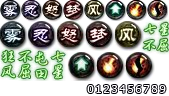
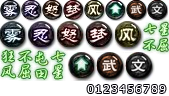
Sp LvMeng

Changed region(s): [[0.5621, 0.5625, 0.9172, 0.8438], [0.7396, 0.0, 1.0, 0.2188]]

diff --git a/Source/Expansions/StarSP/StarSP.Skills.xaml b/Source/Expansions/StarSP/StarSP.Skills.xaml
@@ -56,10 +56,11 @@
     <sys:String x:Key="Skill.TanHu.Name">探虎</sys:String>
     <sys:String x:Key="Skill.TanHu.Description">出牌阶段，你可以与一名其他角色拼点：若你赢，你获得以下技能直到回合结束：你计算的与目标角色的距离为1，你使用的非延时类锦囊对该角色结算时不能被【无懈可击】响应。每阶段限一次。</sys:String>
     <sys:String x:Key="Skill.TanHu.Usage">点“探虎”→选择一名角色→点“确定”</sys:String>
+    <sys:String x:Key="Skill.TanHu.Prompt">请选择一名目标</sys:String>
 
     <sys:String x:Key="Skill.MouDuan.Name">谋断</sys:String>
-    <sys:String x:Key="Skill.MouDuan.Description">锁定技，游戏开始时，你获得一枚“武”标记；当你失去手牌时，若你的手牌数为2或更低，你失去所有的“武”标记并获得一枚“文”标记；一名角色的回合开始前，你可弃置一张牌，然后若你的手牌数为3或更高，你失去所有的“武”标记并获得一枚“文”标记。你拥有“武”标记时，你拥有技能“激昂”和“谦逊”，你拥有“文”标记时，你拥有技能“英姿”和“克己”。</sys:String>
-    <sys:String x:Key="Skill.MouDuan.Usage">系统提示→点“确定”</sys:String>
+    <sys:String x:Key="Skill.MouDuan.Description">转化技，通常状态下，你拥有标记“武”并拥有技能“激昂”和“谦逊”。当你的手牌数为2张或以下时，你须将你的标记翻面为“文”，将该两项技能转化为“英姿”和“克己”。任一角色的回合开始前，你可弃一张牌将标记翻回。</sys:String>
+    <sys:String x:Key="Skill.MouDuan.Usage">系统提示→选择一张牌→点“确定”</sys:String>
 
     <sys:String x:Key="Skill.ZhaoLie.Name">昭烈</sys:String>
     <sys:String x:Key="Skill.ZhaoLie.Description">摸牌阶段摸牌时，你可以少摸一张牌并选择你攻击范围内的一名其他角色，然后亮出牌堆顶的三张牌，将其中的非基本牌和【桃】置入弃牌堆，该角色须选择一项：1、受到你的X点伤害，然后获得剩下的牌；2、依次弃置X张牌，然后你获得剩下的牌。（X为其中除【桃】外的基本牌的数量）。</sys:String>

diff --git a/Source/UI/Resources/Images/System.xaml b/Source/UI/Resources/Images/System.xaml
@@ -312,6 +312,10 @@
     <CroppedBitmap x:Key="Mark.KuangFeng.Image.Small" Source="Marks/marks.png" SourceRect="84,0,20,20" />
     <CroppedBitmap x:Key="Mark.BaoNu.Image.Large" Source="Marks/marks.png" SourceRect="55,21,28,28"/>
     <CroppedBitmap x:Key="Mark.BaoNu.Image.Small" Source="Marks/marks.png" SourceRect="42,0,20,20" />
+    <CroppedBitmap x:Key="Mark.Wu.Image.Large" Source="Marks/marks.png" SourceRect="96,52,28,28" />
+    <CroppedBitmap x:Key="Mark.Wu.Image.Small" Source="Marks/marks.png" SourceRect="126,0,21,21" />
+    <CroppedBitmap x:Key="Mark.Wen.Image.Large" Source="Marks/marks.png" SourceRect="125,52,28,28" />
+    <CroppedBitmap x:Key="Mark.Wen.Image.Small" Source="Marks/marks.png" SourceRect="147,0,21,21" />
     
     <CroppedBitmap x:Key="Mark.Digit.0.Image" Source="Marks/marks.png" SourceRect="86,84,9,10" />
     <CroppedBitmap x:Key="Mark.Digit.1.Image" Source="Marks/marks.png" SourceRect="95,84,7,10" />

diff --git a/Source/Expansions/StarSP/StarSP.Game.xaml b/Source/Expansions/StarSP/StarSP.Game.xaml
@@ -75,4 +75,6 @@
     <sys:String x:Key="CardUsage.Prompt.JunWei">你可以选择3张锦和一个目标发动技能军威</sys:String>
     <sys:String x:Key="CardUsage.Prompt.JunWeiGiveShan">请把闪交给一名角色</sys:String>
     <sys:String x:Key="CardUsage.Prompt.JunWeiShowCard">请展示一张闪，或点取消流失体力</sys:String>
+
+    <sys:String x:Key="CardUsage.Prompt.MouDuan">你可以弃置一张牌，尝试把标记翻面为武</sys:String>
 </ResourceDictionary>

diff --git a/Source/Expansions/StarSP/Skills/MouDuan.cs b/Source/Expansions/StarSP/Skills/MouDuan.cs
@@ -1,0 +1,99 @@
+using System;
+using System.Collections.Generic;
+using System.Linq;
+using System.Text;
+
+using Sanguosha.Core.Triggers;
+using Sanguosha.Core.Cards;
+using Sanguosha.Core.UI;
+using Sanguosha.Core.Skills;
+using Sanguosha.Expansions.Basic.Skills;
+using Sanguosha.Expansions.Hills.Skills;
+using Sanguosha.Core.Games;
+using Sanguosha.Core.Players;
+using Sanguosha.Core.Exceptions;
+
+namespace Sanguosha.Expansions.StarSP.Skills
+{
+    /// <summary>
+    /// 谋断-转化技，通常状态下，你拥有标记“武”并拥有技能“激昂”和“谦逊”。当你的手牌数为2张或以下时，你须将你的标记翻面为“文”，将该两项技能转化为“英姿”和“克己”。任一角色的回合开始前，你可弃一张牌将标记翻回。
+    /// </summary>
+    class MouDuan : TriggerSkill
+    {
+        class MouDuanVerifier : CardsAndTargetsVerifier
+        {
+            public MouDuanVerifier()
+            {
+                MaxCards = 1;
+                MinCards = 1;
+                MaxPlayers = 0;
+                Discarding = true;
+            }
+        }
+
+        public MouDuan()
+        {
+            mdJiAng = new JiAng();
+            mdQianXun = new QianXun();
+            mdYingZi = new YingZi();
+            mdKeJi = new KeJi();
+
+            var trigger1 = new AutoNotifyPassiveSkillTrigger(
+                this,
+                (p, e, a) =>
+                {
+                    p[WuMark] = 1;
+                    Game.CurrentGame.PlayerAcquireSkill(p, mdJiAng);
+                    Game.CurrentGame.PlayerAcquireSkill(p, mdQianXun);
+                },
+                TriggerCondition.OwnerIsSource
+                ) { AskForConfirmation = false, IsAutoNotify = false };
+            Triggers.Add(GameEvent.PlayerGameStartAction, trigger1);
+
+            var trigger2 = new AutoNotifyPassiveSkillTrigger(
+                this,
+                (p, e, a) => { return p.HandCards().Count <= 2 && p[WuMark] != 0; },
+                (p, e, a) =>
+                {
+                    p[WuMark] = 0;
+                    p[WenMark] = 1;
+                    Game.CurrentGame.PlayerLoseSkill(p, mdJiAng);
+                    Game.CurrentGame.PlayerLoseSkill(p, mdQianXun);
+                    Game.CurrentGame.PlayerAcquireSkill(p, mdYingZi);
+                    Game.CurrentGame.PlayerAcquireSkill(p, mdKeJi);
+                },
+                TriggerCondition.OwnerIsSource
+                ) { AskForConfirmation = false};
+            Triggers.Add(GameEvent.CardsLost, trigger2);
+
+            var trigger3 = new AutoNotifyUsagePassiveSkillTrigger(
+                this,
+                (p, e, a) =>{return p[WenMark] != 0;},
+                (p, e, a, c, t) =>
+                {
+                    Game.CurrentGame.HandleCardDiscard(p, c);
+                    if (p.HandCards().Count <= 2) return;
+                    p[WuMark] = 1;
+                    p[WenMark] = 0;
+                    Game.CurrentGame.PlayerLoseSkill(p, mdYingZi);
+                    Game.CurrentGame.PlayerLoseSkill(p, mdKeJi);
+                    Game.CurrentGame.PlayerAcquireSkill(p, mdJiAng);
+                    Game.CurrentGame.PlayerAcquireSkill(p, mdQianXun);
+                },
+                TriggerCondition.Global,
+                new MouDuanVerifier()
+                ) { AskForConfirmation = false };
+            Triggers.Add(GameEvent.PhaseBeforeStart, trigger3);
+
+            IsAutoInvoked = null;
+            IsRulerOnly = true;
+        }
+
+        private ISkill mdJiAng;
+        private ISkill mdQianXun;
+        private ISkill mdYingZi;
+        private ISkill mdKeJi;
+        private static PlayerAttribute WuMark = PlayerAttribute.Register("Wu", false, true);
+        private static PlayerAttribute WenMark = PlayerAttribute.Register("Wen", false, true);
+    }
+}

diff --git a/Source/Expansions/StarSP/Skills/TanHu.cs b/Source/Expansions/StarSP/Skills/TanHu.cs
@@ -1,0 +1,86 @@
+using System;
+using System.Collections.Generic;
+using System.Linq;
+using System.Text;
+using System.Diagnostics;
+
+using Sanguosha.Core.Triggers;
+using Sanguosha.Core.Cards;
+using Sanguosha.Core.UI;
+using Sanguosha.Core.Skills;
+using Sanguosha.Expansions.Basic.Cards;
+using Sanguosha.Core.Games;
+using Sanguosha.Core.Players;
+using Sanguosha.Core.Exceptions;
+
+namespace Sanguosha.Expansions.StarSP.Skills
+{
+    /// <summary>
+    /// 探虎-出牌阶段，你可以与一名其他角色拼点：若你赢，你获得以下技能直到回合结束：你计算的与目标角色的距离为1，你使用的非延时类锦囊对该角色结算时不能被【无懈可击】响应。每阶段限一次。
+    /// </summary>
+    public class TanHu : AutoVerifiedActiveSkill
+    {
+        public TanHu()
+        {
+            MaxPlayers = 1;
+            MinPlayers = 1;
+            MaxCards = 0;
+            linkedPassiveSkill = new TanHuPassiveSkill();
+        }
+
+        protected override bool VerifyPlayer(Player source, Player player)
+        {
+            return player != source && player.HandCards().Count > 0;
+        }
+
+        protected override bool VerifyCard(Player source, Card card)
+        {
+            return false;
+        }
+
+        protected override bool? AdditionalVerify(Player source, List<Card> cards, List<Player> players)
+        {
+            return source[TanHuUsed] == 0;
+        }
+
+        public override bool Commit(GameEventArgs arg)
+        {
+            Owner[TanHuUsed] = 1;
+            target = arg.Targets[0];
+            isWin = Game.CurrentGame.PinDian(Owner, target, this);
+            return true;
+        }
+
+        class TanHuPassiveSkill : TriggerSkill
+        {
+            public TanHuPassiveSkill()
+            {
+                var trigger = new AutoNotifyPassiveSkillTrigger(
+                    this,
+                    (p, e, a) => { return p[TanHuUsed] == 1 && isWin; },
+                    (p, e, a) => { var arg = a as AdjustmentEventArgs; if (arg.Targets[0] == target) arg.AdjustmentAmount = 1; },
+                    TriggerCondition.OwnerIsSource
+                    ) { AskForConfirmation = false, IsAutoNotify = false };
+                Triggers.Add(GameEvent.PlayerDistanceOverride, trigger);
+
+                var trigger2 = new AutoNotifyPassiveSkillTrigger(
+                    this,
+                    (p, e, a) => { return p[TanHuUsed] == 1 && isWin && a.Targets[0] == target; },
+                    (p, e, a) => 
+                    {
+                        if (a.ReadonlyCard.Type.IsCardCategory(CardCategory.ImmediateTool))
+                        {
+                            a.ReadonlyCard[WuXieKeJi.CannotBeCountered[target]] = 1;
+                        }
+                    },
+                    TriggerCondition.OwnerIsSource
+                    ) { AskForConfirmation = false, IsAutoNotify = false };
+                Triggers.Add(GameEvent.CardUsageBeforeEffected, trigger2);
+            }
+        }
+
+        static bool isWin;
+        static Player target;
+        private static PlayerAttribute TanHuUsed = PlayerAttribute.Register("TanHuUsed", true);
+    }
+}

diff --git a/Source/Expansions/StarSP/StarSpExpansion.cs b/Source/Expansions/StarSP/StarSpExpansion.cs
@@ -24,7 +24,7 @@ namespace Sanguosha.Expansions.StarSP
             CardSet.Add(new Card(SuitType.None, -1, new HeroCardHandler(new Hero("SPCaoRen", true, Allegiance.Wei, 4, new KuiWei(), new YanZheng()))));
             CardSet.Add(new Card(SuitType.None, -1, new HeroCardHandler(new Hero("SPPangTong", true, Allegiance.Qun, 3, new ManJuan(), new ZuiXiang()))));
             CardSet.Add(new Card(SuitType.None, -1, new HeroCardHandler(new Hero("SPZhangFei", true, Allegiance.Shu, 4, new JiE(), new DaHe()))));
-            //CardSet.Add(new Card(SuitType.None, -1, new HeroCardHandler(new Hero("SPLvMeng", true, Allegiance.Wu, 3, new TanHu(), new MouDuan()))));
+            CardSet.Add(new Card(SuitType.None, -1, new HeroCardHandler(new Hero("SPLvMeng", true, Allegiance.Wu, 3, new TanHu(), new MouDuan()))));
             CardSet.Add(new Card(SuitType.None, -1, new HeroCardHandler(new Hero("SPLiuBei", true, Allegiance.Shu, 4, new ZhaoLie(), new ShiChou()))));
             CardSet.Add(new Card(SuitType.None, -1, new HeroCardHandler(new Hero("SPDaQiao", false, Allegiance.Wu, 3, new YanXiao(), new AnXian()))));
             CardSet.Add(new Card(SuitType.None, -1, new HeroCardHandler(new Hero("SPGanNing", true, Allegiance.Qun, 4, new YinLing(), new JunWei()))));

diff --git a/Source/Expansions/Basic/Cards/WuXieKeJi.cs b/Source/Expansions/Basic/Cards/WuXieKeJi.cs
@@ -50,7 +50,8 @@ namespace Sanguosha.Expansions.Basic.Cards
             Trace.Assert(eventArgs.Targets.Count == 1);
             Player promptPlayer = eventArgs.Targets[0];
             ICard promptCard = eventArgs.ReadonlyCard;
-            if (card != null && CardCategoryManager.IsCardCategory(card.Type.Category, CardCategory.Tool) && card[WuXieKeJi.CannotBeCountered] == 0)
+            if (card != null && CardCategoryManager.IsCardCategory(card.Type.Category, CardCategory.Tool) &&
+                card[WuXieKeJi.CannotBeCountered] == 0 && card[WuXieKeJi.CannotBeCountered[promptPlayer]] == 0)
             {
                 bool askWuXie = false;
                 foreach (var p in Game.CurrentGame.AlivePlayers)

diff --git a/Source/Core/Games/RoleGame.cs b/Source/Core/Games/RoleGame.cs
@@ -91,12 +91,8 @@ namespace Sanguosha.Core.Games
             {
                 Player currentPlayer = Game.CurrentGame.CurrentPlayer;
                 Trace.TraceInformation("Player {0} action.", currentPlayer.Id);
-                while (true)
+                while (!currentPlayer.IsDead)
                 {
-                    if (currentPlayer.IsDead)
-                    {
-                        break;
-                    }
                     Trace.Assert(Game.CurrentGame.UiProxies.ContainsKey(currentPlayer));
                     IUiProxy proxy = Game.CurrentGame.UiProxies[currentPlayer];
                     ISkill skill;
